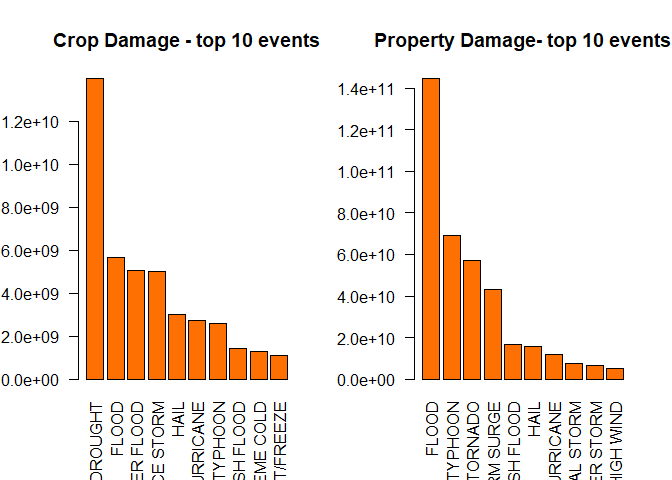
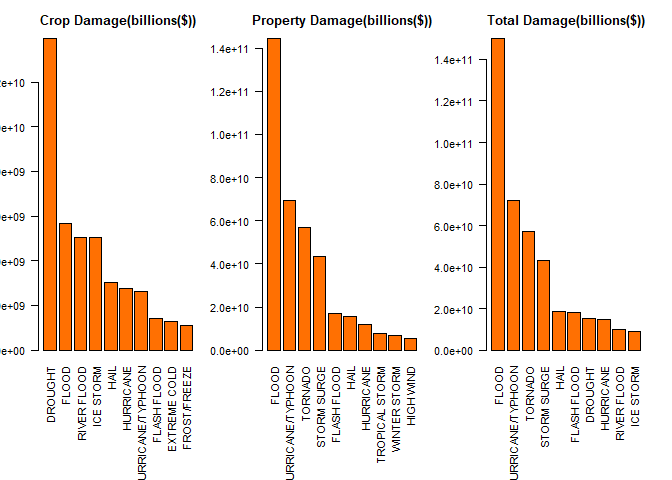
Committed files

diff --git a/Week4PeerProject.html b/Week4PeerProject.html
@@ -695,22 +695,35 @@ totaldamage</code></pre>
 <p>Plotting the graphs for Property, Crop and total damage</p>
 <pre class="r"><code>library(lattice)
 library(dplyr)
-par(mfrow=c(1,2))
+par(mfrow=c(1,3),mar=c(10,3,3,2))
 
 # Plotting CROP Damage in billions($) based on the top ten event types
 barplot(cropdamage$stormCropDamage, 
         names.arg = cropdamage$EVTYPE,
         las = 2,
         col=&quot;#FF7002&quot;,
-        main=&quot;Crop Damage - top 10 events&quot;)
+        main=&quot;Crop Damage(billions($))&quot;)
 
 # Plotting PROPERTY Damage in billions($) based on the top ten event types
 barplot(propertydamage$stormPropertyDamage,
         names.arg = propertydamage$EVTYPE,
         las =2,
         col = &quot;#FF7002&quot;,
-        main=&quot;Property Damage- top 10 events&quot;)</code></pre>
[1 lines of base64/hex data omitted]
+        main=&quot;Property Damage(billions($))&quot;)
+
+# Plotting TOTAL damage in billions($) based on the top ten event types
+barplot(totaldamage$stormTotalDamage,
+        names.arg = totaldamage$EVTYPE,
+        las = 2,
+        col = &quot;#FF7002&quot;,
+        main = &quot;Total Damage(billions($))&quot;)</code></pre>
[1 lines of base64/hex data omitted]
+<p>From the above plots we can conclude the following:</p>
+<ul>
+<li><p>The crops suffered maximum damage during the drought season wherein the losses were close to $14 billion.</p></li>
+<li><p>The damage to property was maximum during floods amounting to $14.4 billion</p></li>
+<li><p>On the whole damage to both Crops and property was maximum during times when there were floods which amounted to $15 billion</p></li>
+</ul>
 </div>
 </div>
 </div>

diff --git a/Week4PeerProject.md b/Week4PeerProject.md
@@ -484,21 +484,36 @@ Plotting the graphs for Property, Crop and total damage
 ```r
 library(lattice)
 library(dplyr)
-par(mfrow=c(1,2))
+par(mfrow=c(1,3),mar=c(10,3,3,2))
 
 # Plotting CROP Damage in billions($) based on the top ten event types
 barplot(cropdamage$stormCropDamage, 
         names.arg = cropdamage$EVTYPE,
         las = 2,
         col="#FF7002",
-        main="Crop Damage - top 10 events")
+        main="Crop Damage(billions($))")
 
 # Plotting PROPERTY Damage in billions($) based on the top ten event types
 barplot(propertydamage$stormPropertyDamage,
         names.arg = propertydamage$EVTYPE,
         las =2,
         col = "#FF7002",
-        main="Property Damage- top 10 events")
+        main="Property Damage(billions($))")
+
+# Plotting TOTAL damage in billions($) based on the top ten event types
+barplot(totaldamage$stormTotalDamage,
+        names.arg = totaldamage$EVTYPE,
+        las = 2,
+        col = "#FF7002",
+        main = "Total Damage(billions($))")
 ```
 
 ![](Week4PeerProject_files/figure-html/unnamed-chunk-10-1.png)<!-- -->
+
+From the above plots we can conclude the following:
+
+* The crops suffered maximum damage during the drought season wherein the losses were close to $14 billion.
+
+* The damage to property was maximum during floods amounting to $14.4 billion
+
+* On the whole damage to both Crops and property was maximum during times when there were floods which amounted to $15 billion
